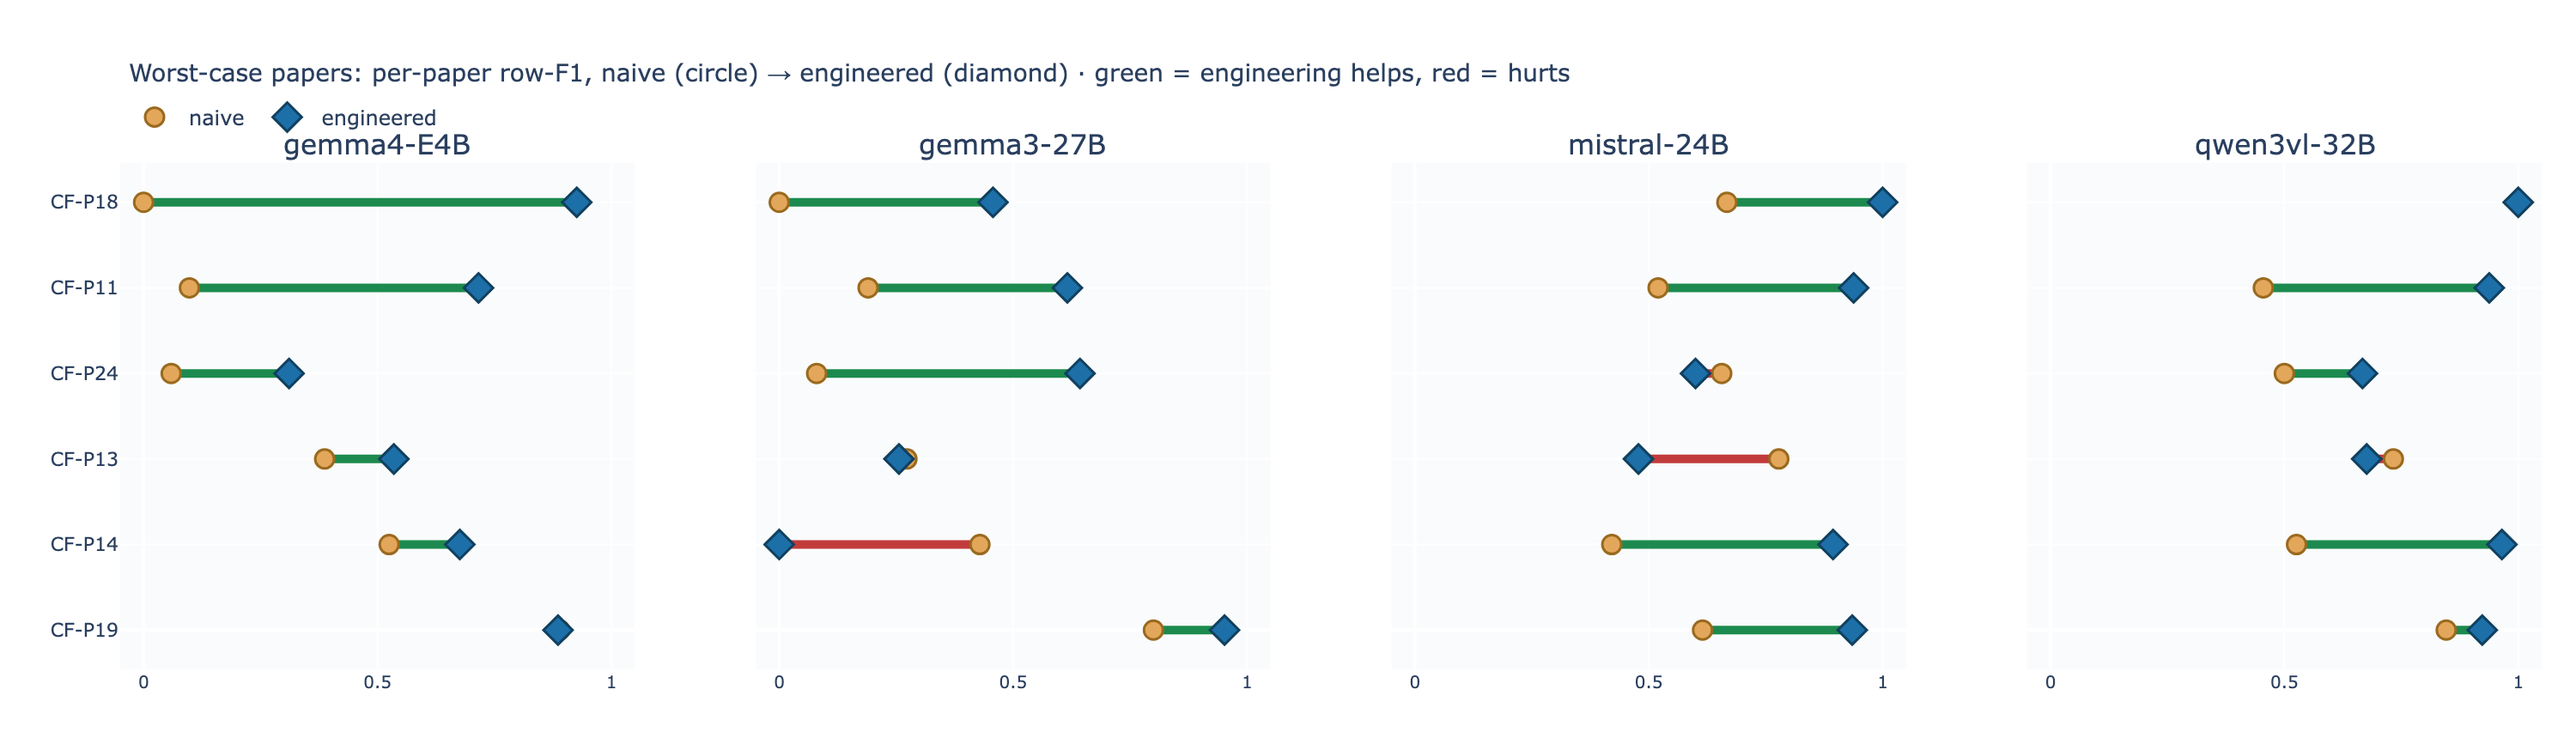
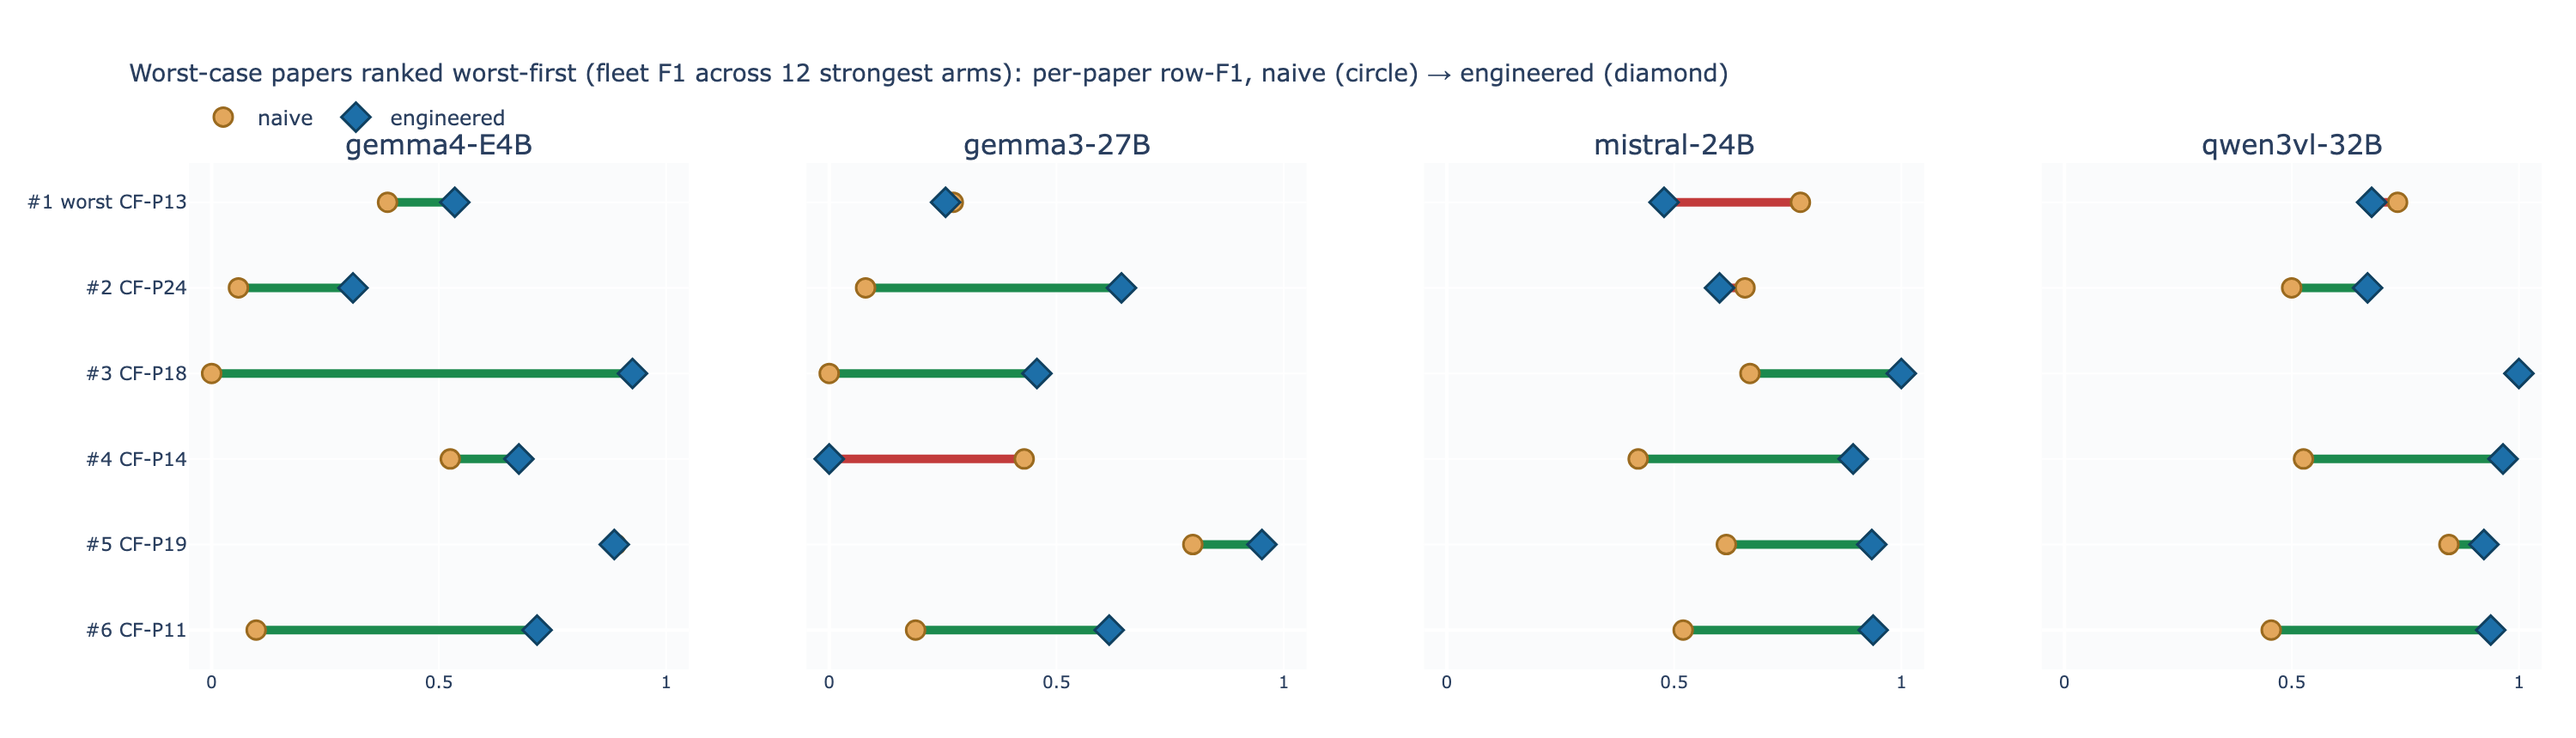
Rank villains worst-first (fleet F1): CF-P13 > P24 > P18 > P14 > P19 > P11; rank column in gallery + showcase tables, figure y-axis re-ordered
Claude-Session: https://claude.ai/code/session_013UGCw4LNzR9XkocEn6dyzh

diff --git a/README.md b/README.md
@@ -116,14 +116,14 @@ They contribute confidence, not discrimination.
 
 **The rogues' gallery** (best/worst UTS-MAPE across the 12 arms):
 
-| Paper | F1 mean | worst F1 run | best MAPE (model) | worst MAPE (model) | median | ceiling kills | Failure axis |
-|---|---|---|---|---|---|---|---|
-| CF-P13 | 0.609 | 0.000 | 1.34% (Gemma4-31B) | 39.13% (Ministral-8B) | 3.89 | 17 | length: 21 pages — context exhaustion, engine wedges, timeouts |
-| CF-P24 | 0.684 | 0.000 | 0.67% (Qwen3.6-35B) | 13.99% (Gemma4-12B) | 3.34 | 8 | protocol: induces view-loop spiraling regardless of length |
-| CF-P14 | 0.845 | 0.000 | — (sorted: 1.35%) | — (sorted: 3.97%) | — | 7 | **schema-degenerate**: row-aligned MAPE refused by design (see disclosure below); length (21 pages) is its real difficulty |
-| CF-P11 | 0.973 | 0.588 | 1.28% (Qwen3.8-27B) | 24.83% (Gemma4-12B) | 9.70 | 0 | figures: rows found easily, values misread — worst numeric error in the corpus |
-| CF-P18 | 0.837 | 0.667 | 0.00% (Qwen3.5-9B) | 29.91% (Ministral-8B) | 6.33 | 0 | figures: raster bar labels — a near-binary 0-or-30 chart-reading switch |
-| CF-P19 | 0.902 | 0.421 | 0.01% (Ministral-8B) | 6.55% (Muse-30B) | 0.40 | 6 | engine: shortest paper (6 pages), kills come from long-context serving configs, not content |
+| rank Paper | F1 mean | worst F1 run | best MAPE (model) | worst MAPE (model) | median | ceiling kills | Failure axis |
+|---|---|---|---|---|---|---|---|---|
+| **#1** CF-P13 | 0.609 | 0.000 | 1.34% (Gemma4-31B) | 39.13% (Ministral-8B) | 3.89 | 17 | length: 21 pages — context exhaustion, engine wedges, timeouts |
+| **#2** CF-P24 | 0.684 | 0.000 | 0.67% (Qwen3.6-35B) | 13.99% (Gemma4-12B) | 3.34 | 8 | protocol: induces view-loop spiraling regardless of length |
+| **#3** CF-P18 | 0.837 | 0.667 | 0.00% (Qwen3.5-9B) | 29.91% (Ministral-8B) | 6.33 | 0 | figures: raster bar labels — a near-binary 0-or-30 chart-reading switch |
+| **#4** CF-P14 | 0.845 | 0.000 | — (sorted: 1.35%) | — (sorted: 3.97%) | — | 7 | **schema-degenerate**: row-aligned MAPE refused by design (see disclosure below); length (21 pages) is its real difficulty |
+| **#5** CF-P19 | 0.902 | 0.421 | 0.01% (Ministral-8B) | 6.55% (Muse-30B) | 0.40 | 6 | engine: shortest paper (6 pages), kills come from long-context serving configs, not content |
+| **#6** CF-P11 | 0.973 | 0.588 | 1.28% (Qwen3.8-27B) | 24.83% (Gemma4-12B) | 9.70 | 0 | figures: rows found easily, values misread — worst numeric error in the corpus |
 
 Difficulty is three independent axes — **length** (P13/P14), **figure hostility** (P11/P18,
 which break MAPE while leaving F1 intact), and **protocol traps** (P24). CF-P18 is the
@@ -352,14 +352,14 @@ per-paper autopsy above).
 
 ![Per-paper dumbbells on the six rogue papers: naive to engineered F1 for each model pair](docs/figures/eng_vs_naive_villains.png)
 
-| | gemma4-E4B | gemma3-27B | mistral-24B | qwen3vl-32B |
-|---|---|---|---|---|
-| CF-P18 | **0.000 → 0.926** | **0.000 → 0.457** | **0.667 → 1.000** | 1.000 → 1.000 |
-| CF-P11 | **0.098 → 0.716** | **0.190 → 0.616** | **0.520 → 0.938** | **0.455 → 0.938** |
-| CF-P24 | 0.059 → 0.311 | **0.080 → 0.643** | 0.656 → 0.600 | 0.500 → 0.667 |
-| CF-P13 | 0.387 → 0.535 | 0.273 → 0.256 | **0.778 → 0.478** | 0.733 → 0.676 |
-| CF-P14 | 0.525 → 0.676 | **0.429 → 0.000** | **0.421 → 0.894** | **0.526 → 0.965** |
-| CF-P19 | 0.890 → 0.886 | 0.800 → 0.952 | **0.615 → 0.935** | 0.846 → 0.923 |
+| rank | paper | gemma4-E4B | gemma3-27B | mistral-24B | qwen3vl-32B |
+|---|---|---|---|---|---|
+| 1 | CF-P13 | 0.387 → 0.535 | 0.273 → 0.256 | **0.778 → 0.478** | 0.733 → 0.676 |
+| 2 | CF-P24 | 0.059 → 0.311 | **0.080 → 0.643** | 0.656 → 0.600 | 0.500 → 0.667 |
+| 3 | CF-P18 | **0.000 → 0.926** | **0.000 → 0.457** | **0.667 → 1.000** | 1.000 → 1.000 |
+| 4 | CF-P14 | 0.525 → 0.676 | **0.429 → 0.000** | **0.421 → 0.894** | **0.526 → 0.965** |
+| 5 | CF-P19 | 0.890 → 0.886 | 0.800 → 0.952 | **0.615 → 0.935** | 0.846 → 0.923 |
+| 6 | CF-P11 | **0.098 → 0.716** | **0.190 → 0.616** | **0.520 → 0.938** | **0.455 → 0.938** |
 
 Three showcase cases (bold = |Δ| > 0.3):
 
